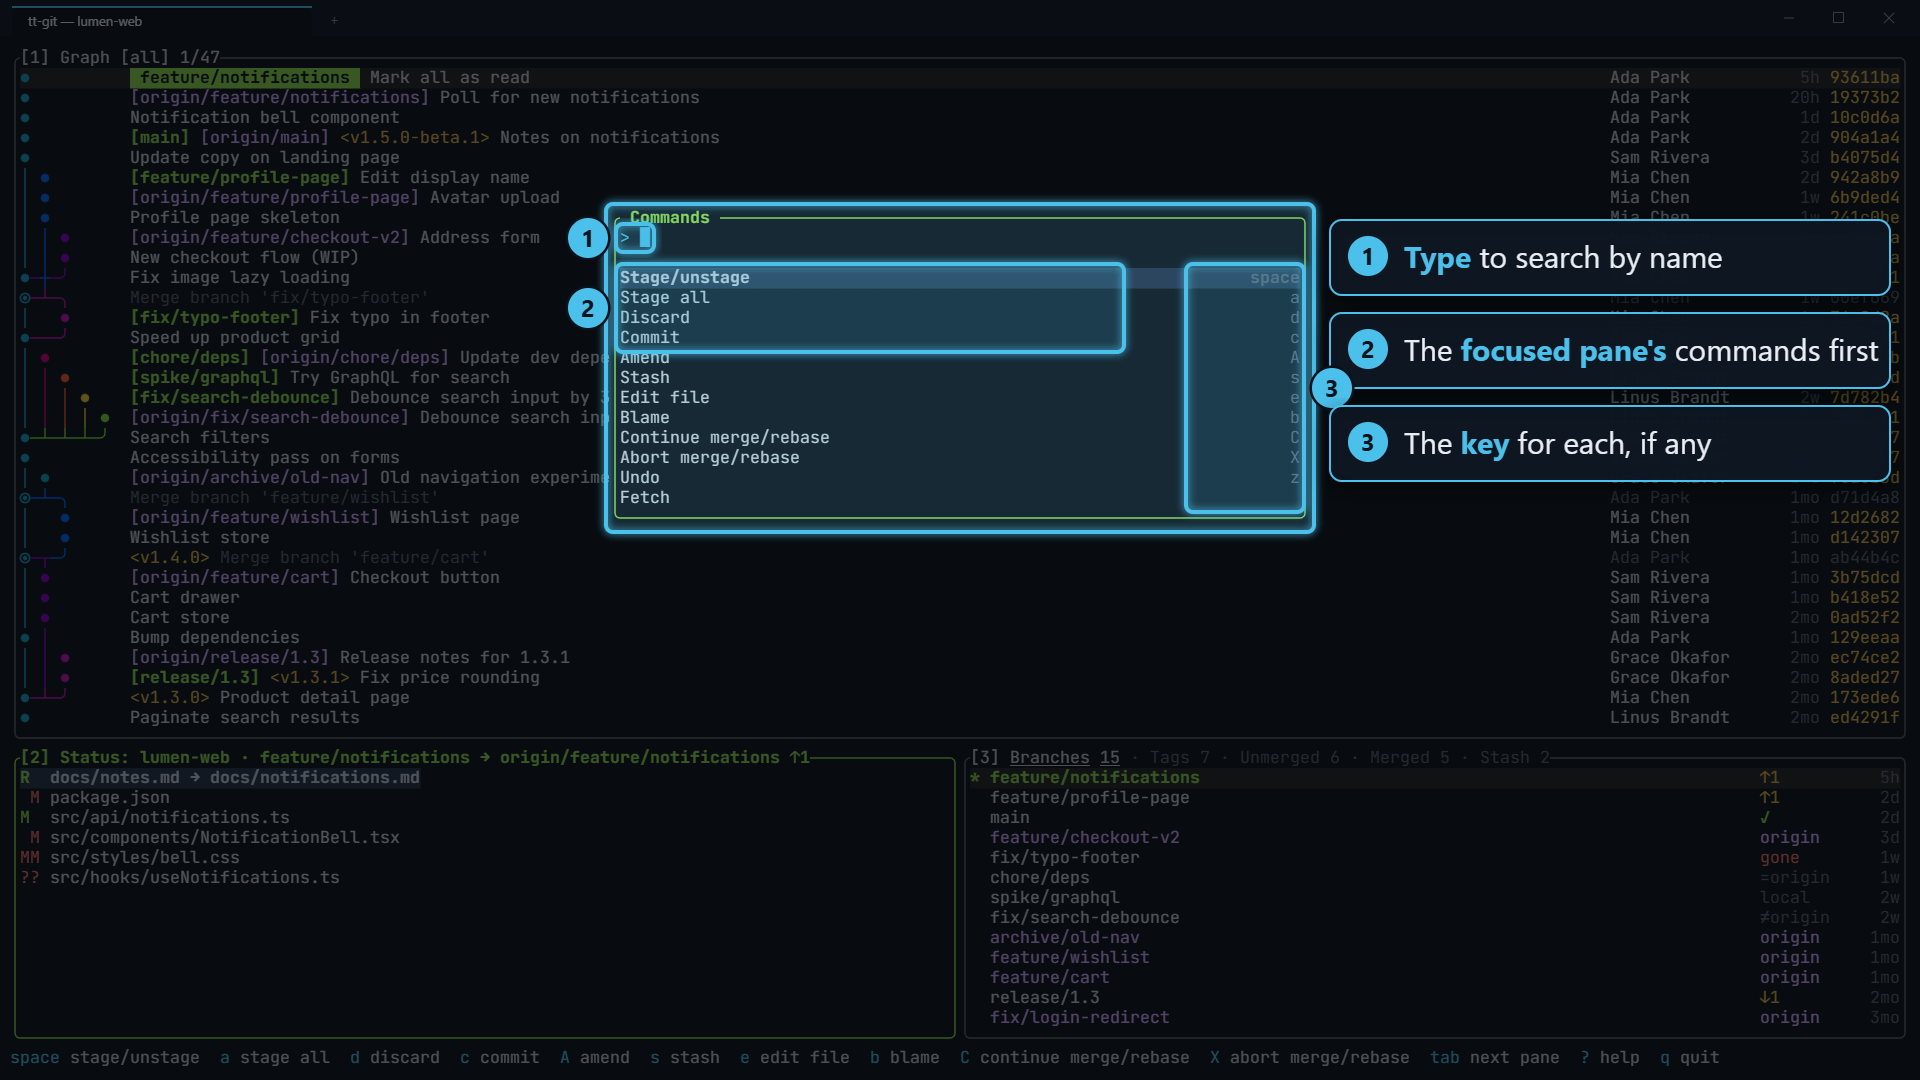
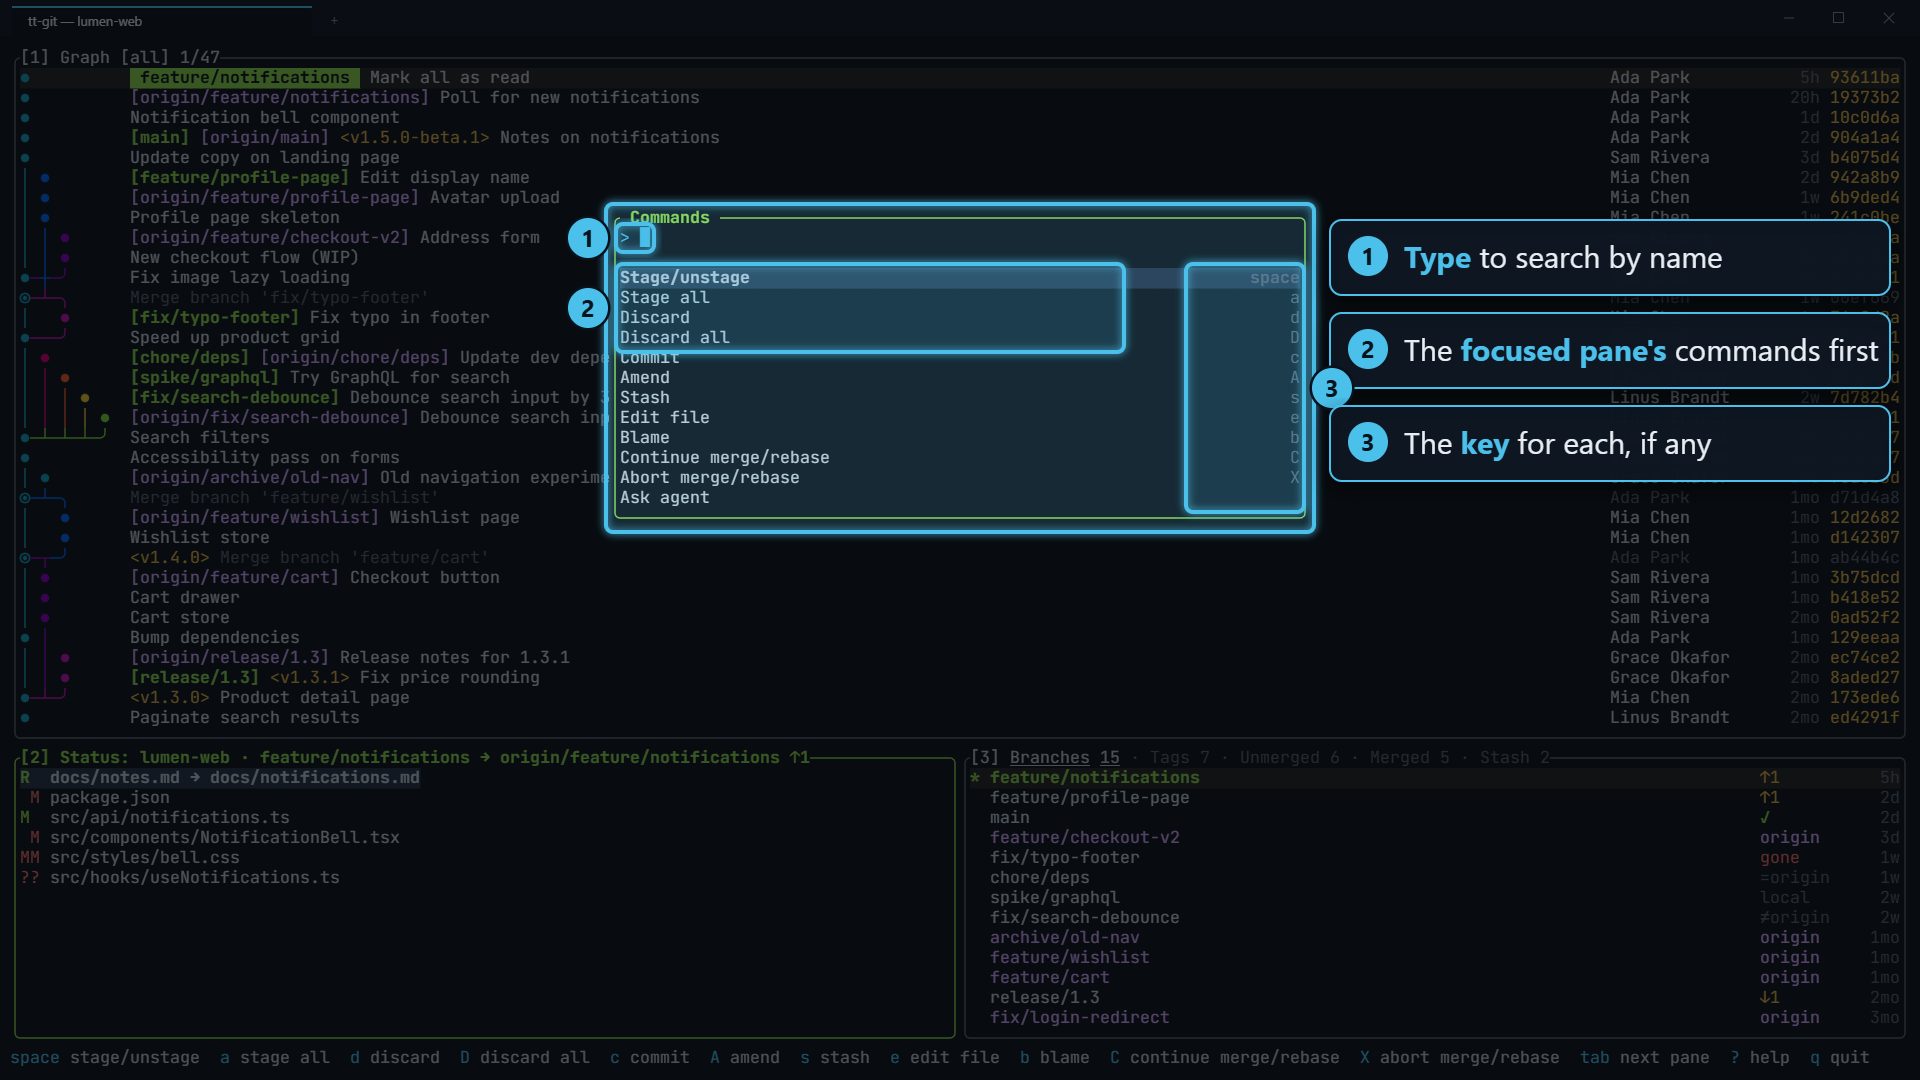
docs(status): Describe discarding everything with D
Adds the Discard all dialog to the status pane page with a screenshot,
the D key to the key tables, the git commands it runs to How it works,
the discard-all data of files.discarded to the plugin events, and notes
on the undo page that discards can't be undone.

diff --git a/crates/tt-git-testkit/examples/docshots.rs b/crates/tt-git-testkit/examples/docshots.rs
@@ -74,6 +74,7 @@ fn main() {
         ("commit", &["2", "c", "text:Show the unread count on the bell"]),
         ("stash-prompt", &["2", "s", "tab", "tab", "text:try a pulse animation"]),
         ("discard-confirm", &["2", "j", "d"]),
+        ("discard-all", &["2", "D"]),
         ("branches", &["3"]),
         ("branches-filter", &["3", "/", "text:fpp"]),
         ("branches-new", &["3", "j", "j", "n", "tab", "text:fix/footer-links"]),

diff --git a/docs/configuration.md b/docs/configuration.md
@@ -234,7 +234,7 @@ Write keys as `q`, `Q`, `shift+q`, `ctrl+c`, `alt+enter`, `shift+tab`,
 | `push_tag` | `P` (on the Tags tab; pushes the branch on the others) | branches |
 | `next_tab`, `prev_tab`, `pick_base` | `]` `}`, `[` `{`, `b` | branches |
 | `next_tab`, `prev_tab` | `]` `}`, `[` `{` (steps the branches pane's tabs) | graph |
-| `stage_toggle`, `open_staging`, `stage_all`, `discard`, `commit`, `amend`, `stash`, `continue`, `abort` | `space`, `enter`, `a`, `d`, `c`, `A`, `s`, `C`, `X` | status |
+| `stage_toggle`, `open_staging`, `stage_all`, `discard`, `discard_all`, `commit`, `amend`, `stash`, `continue`, `abort` | `space`, `enter`, `a`, `d`, `D`, `c`, `A`, `s`, `C`, `X` | status |
 | `stash_pop`, `stash_apply`, `stash_drop`, `new_branch`, `expand_details`, `next_tab`, `prev_tab`, `filter` | `space`, `a`, `d`, `n`, `enter`, `]` `}`, `[` `{`, `/` | stash |
 | `open_worktree`, `remove_worktree`, `new_branch`, `copy`, `next_tab`, `prev_tab`, `filter` | `enter`/`space`, `d`, `n`, `c`, `]` `}`, `[` `{`, `/` | worktrees |
 | `stage_toggle`, `switch_side`, `toggle_line_mode`, `select_range`, `discard`, `commit`, `close_details` | `space`, `tab`, `a`, `v`, `d`, `c`, `esc` | stage |

diff --git a/docs/plugins.md b/docs/plugins.md
@@ -144,7 +144,7 @@ Event hooks are low-volume events, each run as a fresh process:
 | `tag.created` / `tag.pushed` / `tag.deleted` | `{tag, target, annotated}` / `{tag}` / `{tag, remote}` (`remote` is null for a local-only delete) |
 | `commit.created` | `{oid, amend, summary}` |
 | `fetch.completed` / `pull.completed` / `push.completed` | `{}` / `{branch, head}` / `{branch}` |
-| `files.staged` / `files.unstaged` / `files.discarded` | `{paths}` (`"all"` for stage-all) / `{paths}` / `{path}`, plus `partial: true` when only some hunks or lines changed |
+| `files.staged` / `files.unstaged` / `files.discarded` | `{paths}` (`"all"` for stage-all) / `{paths}` / `{path}`, plus `partial: true` when only some hunks or lines changed; discard all sends `{path: "all", scope}` with `scope` one of `everything`, `unstaged`, `unstaged_and_untracked`, `untracked` |
 | `merge.completed` / `rebase.completed` / `cherry_pick.completed` | `{target/onto/picked, head}` |
 | `stash.created` / `stash.applied` / `stash.dropped` | `{message}` / `{stash, pop}` / `{stash}` |
 | `worktree.removed` | `{path, branch, force}` (`branch` null if it was detached; `force` true if removed with its changes) |

diff --git a/README.md b/README.md
@@ -134,6 +134,7 @@ command palette, which lists built-in commands and plugin actions.
 | | `enter` | open the file's changes fullscreen to stage them by hunk or line (below) |
 | | `a` | stage everything (or unstage, if all staged) |
 | | `d` | discard changes to the file (asks first) |
+| | `D` | discard all: everything, unstaged changes (with or without untracked files), or untracked files (asks first) |
 | | `c` / `A` | commit / amend keeping the message |
 | | `s` | stash: everything, only what's staged, only what isn't staged, everything but leave staged changes in place, or just the selected file (`tab` in the dialog picks; the message is optional) |
 | | `e` | open the file in your editor at its first change (a conflicted file: at its first conflict marker) |
